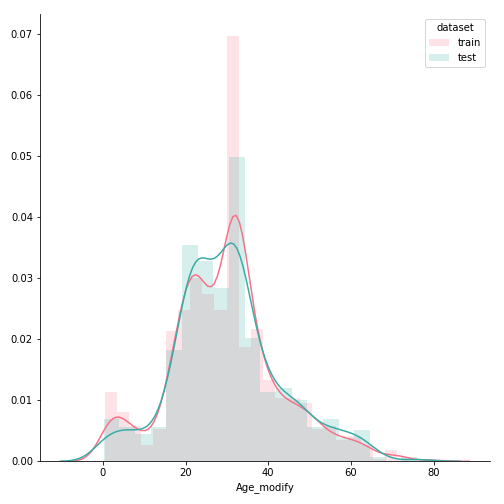
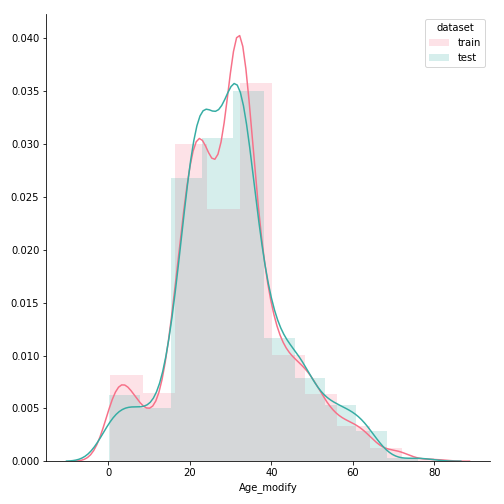
update

diff --git a/01_EDA.py b/01_EDA.py
@@ -1,5 +1,5 @@
 
-#
+# Import ibrary and load data
 import pandas as pd
 import numpy as np
 import re
@@ -8,12 +8,11 @@ import matplotlib.pyplot as plt
 import seaborn as sns
 
 
-#
 train = pd.read_csv('train.csv', index_col=['PassengerId'])
 test = pd.read_csv('test.csv', index_col=['PassengerId'])
 
 
-#
+# Explor the data
 print('train shape : ', train.shape)    # (891, 12)
 print('test shape : ', test.shape)      # (418, 11)
 
@@ -26,10 +25,9 @@ print('test head : \n', test.head(10))
 print('train info : \n', train.info())
 print('test info: \n', test.info())
 
-print('train missing value : \n', train.isnull().sum())
+print('train missing values : \n', train.isnull().sum())
 # Age : 177, Cabin : 687, Embarked : 2
-
-print('test missing value : \n', test.isnull().sum())
+print('test missing values : \n', test.isnull().sum())
 # Age : 86, Fare : 1, Cabin : 327
 
 print('train describe : \n', train.describe())
@@ -51,7 +49,7 @@ print('train data Survived : \n', train['Survived'].value_counts(sort=False))
 
 
 # -----------------------------------------------------------------------------
-#
+# Merge train data and test data
 train['dataset'] = 'train set'
 test['dataset'] = 'test set'
 
@@ -63,7 +61,7 @@ print('merged data head : \n', merged.head())
 print('merged data tail : \n', merged.tail())
 
 
-#
+# Change feature to integer
 def to_number(data):
     data.loc[data['Sex'] == 'male', 'Sex'] = 0
     data.loc[data['Sex'] == 'female', 'Sex'] = 1
@@ -83,7 +81,7 @@ print(merged[['Sex','Embarked']].head())
 print(merged[['Sex','Embarked']].tail())
     
 
-#
+# Extract the title name
 def title_name(name):
     n = re.findall(', .{1,15}\.', name)
     return ' '.join(n)[2:]
@@ -229,7 +227,7 @@ def Name_bar(data, hue):
     ax = sns.countplot(x='title_name', hue=hue, data=data, palette='husl')                            
     plt.xlabel('')
     plt.xticks(rotation=30)
-    plt.legend(loc='upper right')
+    plt.legend(loc='upper right').set_title(hue)
     plt.title('Title Name frequency', fontsize=15)
     
     for p in ax.patches:
@@ -272,7 +270,7 @@ def Name_to_number(data):
 merged = Name_to_number(merged)
 
 
-#
+# Fill the missing value of Embarked
 merged.loc[merged['Embarked'].isnull()]
 merged.loc[merged['ticket_int'] == '113572', 'Embarked']
 merged.loc[merged['Cabin'] == 'B28', 'Embarked']
@@ -282,7 +280,7 @@ merged.loc[merged['Pclass'] == 1, 'Embarked']
 merged.loc[merged['Embarked'].isnull(), 'Embarked'] = 2
 
 
-#
+# Do one-hot encoding
 temp = pd.get_dummies(merged.Embarked)
 temp.columns = ['E_Cherbourg', 'E_Queenstown', 'E_Southampton']
 merged = pd.concat([merged, temp], axis=1)
@@ -292,10 +290,7 @@ merged.columns
 
 
 # -----------------------------------------------------------------------------
-def hist(data, a, hue, col=None):
-    g =  sns.FacetGrid(data, hue=hue, col=col, size=7, palette='husl')
-    g = g.map(sns.distplot, a, hist_kws={'alpha':0.2})
-    
+#   
 def box(data, x, y, hue=None):
     plt.figure(figsize=(10,7))
     sns.boxplot(x=x, y=y, hue=hue, data=data, palette='husl')
@@ -331,8 +326,8 @@ plt.show()
 
 
 #
-merged.loc[merged['Age'].isnull()]
-temp = merged.groupby(['Sex', 'Mr', 'Mrs', 'Miss', 'Master'])['Age'].mean().reset_index()
+merged.loc[merged['Age'].isnull()]  #263
+temp = merged.groupby(['Sex', 'Mr', 'Mrs', 'Miss', 'Master'])['Age'].mean()
 temp = merged.groupby(['Sex', 'Mr', 'Mrs', 'Miss', 'Master'])['Age'].transform('mean')
 
 loss = merged['Age'] - temp
@@ -341,12 +336,20 @@ loss = np.sum(loss) / len(merged.loc[merged['Age'].notnull()])
 loss = np.sqrt(loss)
 
 merged['Age_modify'] = merged['Age'].fillna(temp)
-merged.loc[merged['Age'].isnull()]
+merged.loc[merged['Age'].isnull(), 'Mrs'].sum()     # 27
+merged.loc[merged['Age'].isnull(), 'Miss'].sum()    # 50
+merged.loc[merged['Age'].isnull(), 'Mr'].sum()      # 176
+merged.loc[merged['Age'].isnull(), 'Master'].sum()  # 8
 
 
 #
+def hist(data, a, hue, col=None):
+    g =  sns.FacetGrid(data, hue=hue, col=col, size=7, palette='husl')
+    g = g.map(sns.distplot, a, bins=10, hist_kws={'alpha':0.2})
+    
 hist(merged, 'Age', 'dataset')
 plt.legend(['train','test']).set_title('dataset')
+plt.ylim((0, 0.05))
 plt.savefig('graph/hist_Age.png')
 plt.show()
 
@@ -355,9 +358,9 @@ plt.legend(['train','test']).set_title('dataset')
 plt.savefig('graph/hist_Age_modify.png')
 plt.show()
 
-hist(merged, 'Age', 'Sex', 'Survived')
-plt.legend(['male','female']).set_title('Sex')
-plt.savefig('graph/hist_Age_Sex.png')
+hist(merged, 'Age_modify', 'Survived')
+plt.legend().set_title('Survived')
+plt.savefig('graph/hist_Age_modify_Survived.png')
 plt.show()
 
 hist(merged, 'Age_modify', 'Sex', 'Survived')
@@ -365,18 +368,38 @@ plt.legend(['male','female']).set_title('Sex')
 plt.savefig('graph/hist_Age_modify_Sex.png')
 plt.show()
 
-hist(merged, 'Embarked', 'Survived')
-plt.legend(['Cherbourg', 'Queenstown', 'Southampton']).set_title('Embarked')
-plt.savefig('graph/hist_Age_Embarked.png')
+
+#
+box(merged, 'Survived', 'Age_modify')
+plt.savefig('graph/box_Age_Survived.png')
 plt.show()
 
 
+#
+box(merged, 'dataset', 'Fare')
+plt.savefig('graph/box_Fare.png')
+plt.show()
 
-merged['Ticket'].value_counts()
-merged['SibSp'].value_counts()
-merged['Parch'].value_counts()
+box(merged, 'Survived', 'Fare')
+plt.savefig('graph/box_Fare_Survived.png')
+plt.show()
 
-merged.loc[merged['Age'].isnull()]
+box(merged, 'Pclass', 'Fare')
+plt.xticks((0,1,2), ('1st', '2nd', '3rd'))
+plt.savefig('graph/box_Fare_Pclass.png')
+plt.show()
 
-train.to_csv('train_modify.csv', index=False)
+hist(merged, 'Fare', 'dataset')
+plt.legend(['train','test']).set_title('dataset')
+plt.savefig('graph/hist_Fare.png')
+plt.show()
 
+
+#
+merged.columns
+
+train = merged.iloc[:891]
+train.to_csv('train_modify.csv')
+
+test = merged.iloc[891:]
+test.to_csv('test_modify.csv')

diff --git a/01_EDA.md b/01_EDA.md
@@ -454,15 +454,12 @@ merged = pd.concat([merged, temp], axis=1)
 ```
 
 <br>
+
 ---
 
 ### Draw boxplots about Age
 
 ```python
-def hist(data, a, hue, col=None):
-    g =  sns.FacetGrid(data, hue=hue, col=col, size=7, palette='husl')
-    g = g.map(sns.distplot, a, hist_kws={'alpha':0.2})
-
 def box(data, x, y, hue=None):
     plt.figure(figsize=(10,7))
     sns.boxplot(x=x, y=y, hue=hue, data=data, palette='husl')
@@ -534,6 +531,7 @@ plt.show()
 ![png](graph/box_Age_Sex_Master.png)
 
 <br>
+
 ---
 
 ### Fill the missing value of Age
@@ -543,7 +541,7 @@ temp = merged.groupby(['Sex', 'Mr', 'Mrs', 'Miss', 'Master'])['Age'].mean()
 print(temp)
 ```
 | Sex | Mr | Mrs | Miss | Master | Age |
-|-----|-----|-----|-----|-----:|
+|-----|-----|-----|-----|-----|-------:|
 | 0 | 0 | 0 | 0 | 0 | 45.666667 |
 | 0 | 0 | 0 | 0 | 1 | 5.482642 |
 | 0 | 1 | 0 | 0 | 0 | 32.252151 |
@@ -558,9 +556,19 @@ temp = merged.groupby(['Sex', 'Mr', 'Mrs', 'Miss', 'Master'])['Age'].transform('
 merged['Age_modify'] = merged['Age'].fillna(temp)
 ```
 
+<br>
+
 ---
 
-### Draw histogram
+### Draw histograms and boxplot about Age
+
+```python
+def hist(data, a, hue, col=None):
+    g =  sns.FacetGrid(data, hue=hue, col=col, size=7, palette='husl')
+    g = g.map(sns.distplot, a, hist_kws={'alpha':0.2})
+```
+
+<br>
 
 ```python
 hist(merged, 'Age', 'dataset')
@@ -585,12 +593,76 @@ plt.show()
 <br>
 
 ```python
-hist(merged, 'Age', 'Sex', 'Survived')
-plt.legend(['male','female']).set_title('Sex')
-plt.savefig('graph/hist_Age_Sex.png')
+hist(merged, 'Age_modify', 'Survived')
+plt.legend().set_title('Survived')
+plt.savefig('graph/hist_Age_modify_Survived.png')
 plt.show()
 ```
 
-![png](graph/hist_Age_Sex.png)
+![png](graph/hist_Age_modify_Survived.png)
 
 <br>
+
+```python
+hist(merged, 'Age_modify', 'Sex', 'Survived')
+plt.legend(['male','female']).set_title('Sex')
+plt.savefig('graph/hist_Age_modify_Sex.png')
+plt.show()
+```
+
+![png](graph/hist_Age_modify_Sex.png)
+
+<br>
+
+```python
+box(merged, 'Survived', 'Age_modify')
+plt.savefig('graph/box_Age_Survived.png')
+plt.show()
+```
+
+![png](graph/box_Age_Survived.png)
+
+<br>
+
+### Draw boxplots and histograms about Fare
+
+```python
+box(merged, 'dataset', 'Fare')
+plt.savefig('graph/box_Fare.png')
+plt.show()
+```
+
+![png](graph/box_Fare.png)
+
+<br>
+
+```python
+box(merged, 'Survived', 'Fare')
+plt.savefig('graph/box_Fare_Survived.png')
+plt.show()
+
+```
+
+![png](graph/box_Fare_Survived.png)
+
+<br>
+
+```python
+box(merged, 'Pclass', 'Fare')
+plt.xticks((0,1,2), ('1st', '2nd', '3rd'))
+plt.savefig('graph/box_Fare_Pclass.png')
+plt.show()
+```
+
+![png](graph/box_Fare_Pclass.png)
+
+<br>
+
+```python
+hist(merged, 'Fare', 'dataset')
+plt.legend(['train','test']).set_title('dataset')
+plt.savefig('graph/hist_Fare.png')
+plt.show()
+```
+
+![png](graph/hist_Fare.png)
